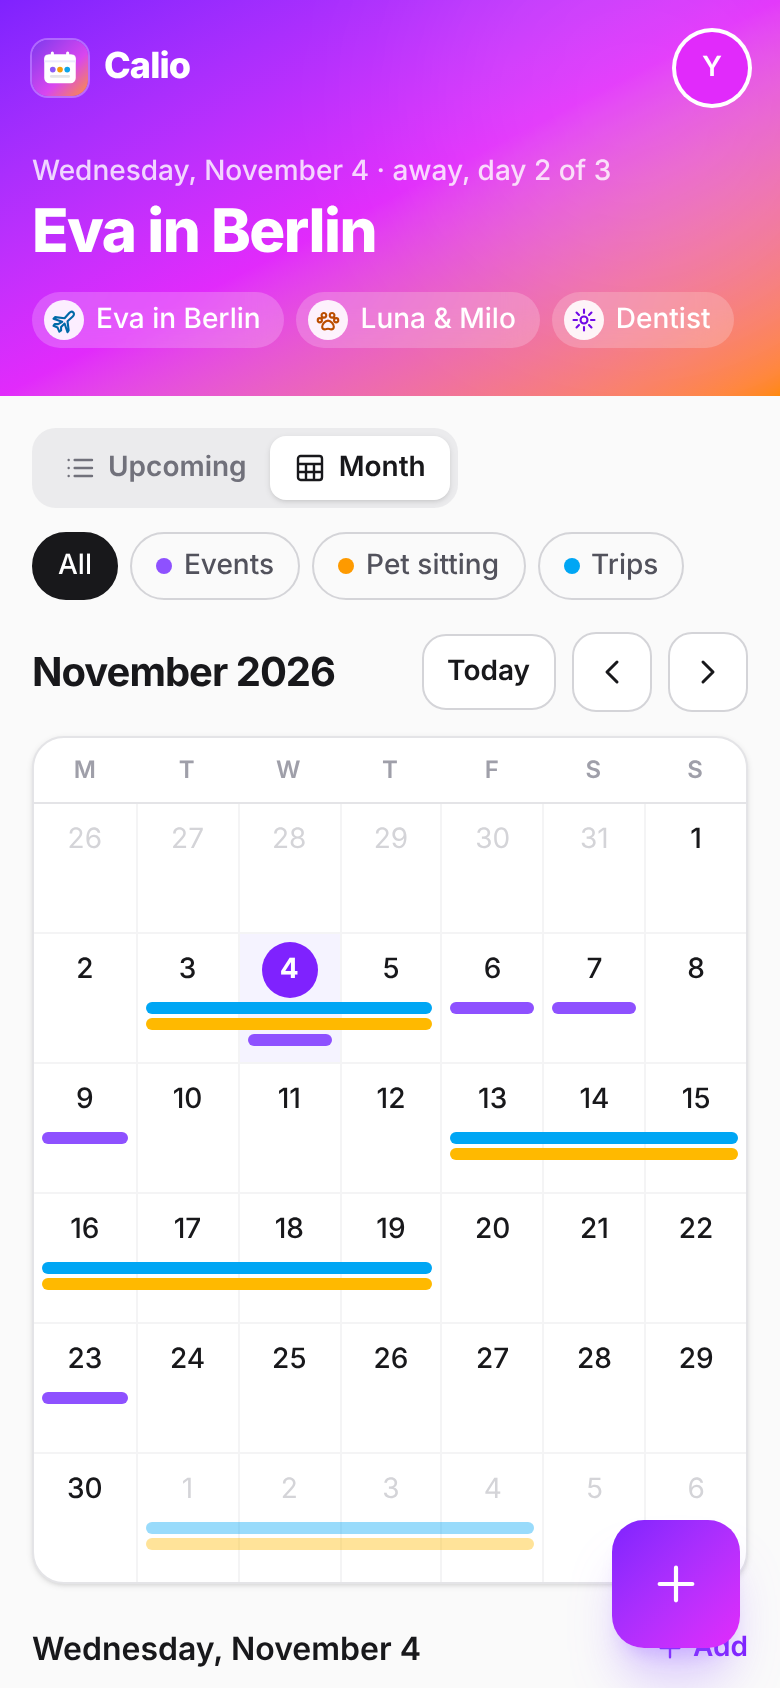
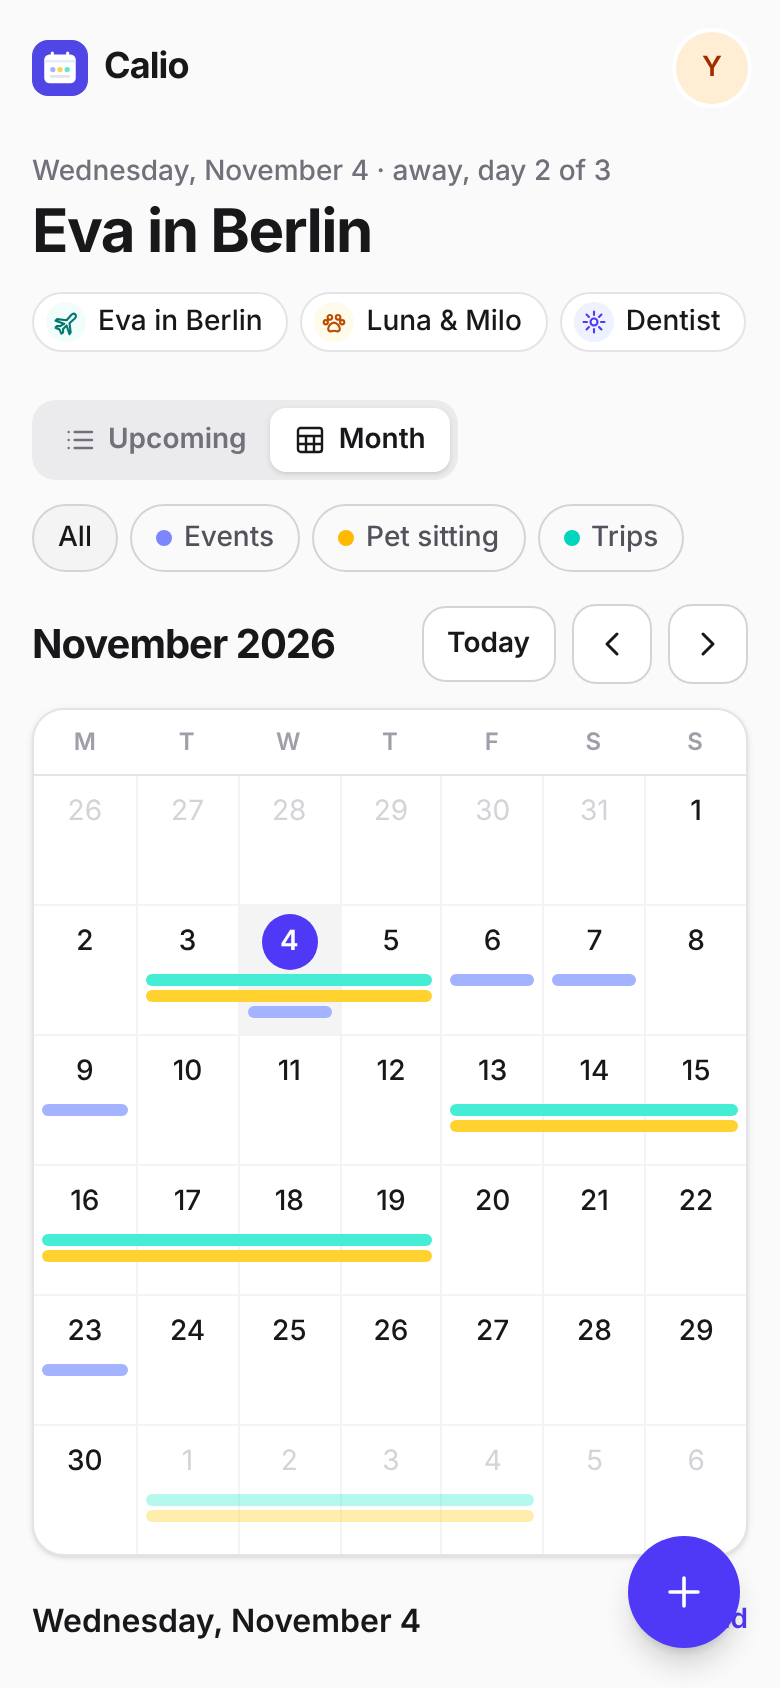
Calmer colors
A plain header instead of the gradient, soft tints for events, pet sitting
and trips, pastel avatars, a solid indigo add button and a flat indigo icon.
The month view keeps slightly stronger bars on phones so they stay readable.

diff --git a/web/src/components/Home.svelte b/web/src/components/Home.svelte
@@ -69,39 +69,30 @@
 </script>
 
 <div class="mx-auto flex min-h-dvh w-full max-w-3xl flex-col">
-  <header
-    class="relative overflow-hidden px-4 pt-[max(1rem,env(safe-area-inset-top))] pb-6 text-white"
-  >
-    <div
-      class="absolute inset-0 -z-10 bg-gradient-to-br from-violet-600 via-fuchsia-500 to-orange-400 sm:rounded-b-3xl"
-    ></div>
-    <div class="absolute -top-16 -right-10 -z-10 size-56 rounded-full bg-white/10 blur-2xl"></div>
+  <header class="px-4 pt-[max(1rem,env(safe-area-inset-top))] pb-2">
     <div class="flex items-center justify-between">
-      <span class="inline-flex items-center gap-2 text-lg font-extrabold tracking-tight">
-        <img src="/icons/icon.svg" alt="" class="size-7 rounded-lg ring-1 ring-white/30" /> Calio
+      <span class="inline-flex items-center gap-2 text-lg font-bold tracking-tight">
+        <img src="/icons/icon.svg" alt="" class="size-7 rounded-lg" /> Calio
       </span>
       <button class="rounded-full" onclick={() => (settings = true)} aria-label="Settings">
         <Avatar person={session.user!} size="size-9 text-sm" />
       </button>
     </div>
-    <p class="mt-6 text-sm font-medium text-white/80">
+    <p class="mt-6 text-sm font-medium text-zinc-500 dark:text-zinc-400">
       {longDayLabel(calendar.today)}{#if away}&nbsp;· away, {progressLabel(
           away,
           calendar.today,
         ).toLowerCase() || 'today'}{/if}
     </p>
-    <h1 class="mt-0.5 text-3xl font-extrabold tracking-tight">{summary}</h1>
+    <h1 class="mt-0.5 text-3xl font-bold tracking-tight">{summary}</h1>
     {#if today.length}
       <div class="mt-3 flex flex-wrap gap-1.5">
         {#each today.slice(0, 4) as e (e.id)}
           <button
-            class="inline-flex max-w-full items-center gap-1.5 rounded-full bg-white/20 py-1 pr-3 pl-1.5 text-sm font-medium backdrop-blur hover:bg-white/30"
+            class="inline-flex max-w-full items-center gap-1.5 rounded-full border border-zinc-200 bg-white py-1 pr-3 pl-1.5 text-sm font-medium hover:bg-zinc-100 dark:border-zinc-800 dark:bg-zinc-900 dark:hover:bg-zinc-800"
             onclick={() => open(e)}
           >
-            <span
-              class="grid size-5 place-items-center rounded-full bg-white/90 {LOOK[e.kind].tile
-                .split(' ')
-                .find((c) => c.startsWith('text-'))}"
+            <span class="grid size-5 place-items-center rounded-full {LOOK[e.kind].tile}"
               ><Icon name={LOOK[e.kind].icon} class="size-3.5" /></span
             >
             <span class="truncate">{e.title}</span>
@@ -131,7 +122,7 @@
         <button
           class="shrink-0 rounded-full border px-3 py-1.5 text-sm font-medium transition {filter ===
           'all'
-            ? 'border-zinc-900 bg-zinc-900 text-white dark:border-white dark:bg-white dark:text-zinc-900'
+            ? 'border-zinc-300 bg-zinc-100 text-zinc-900 dark:border-zinc-600 dark:bg-zinc-800 dark:text-zinc-100'
             : 'border-zinc-300 text-zinc-600 dark:border-zinc-700 dark:text-zinc-300'}"
           onclick={() => (filter = 'all')}>All</button
         >
@@ -143,8 +134,7 @@
               : 'border-zinc-300 text-zinc-600 dark:border-zinc-700 dark:text-zinc-300'}"
             onclick={() => (filter = filter === k.kind ? 'all' : k.kind)}
           >
-            <span class="size-2 rounded-full {filter === k.kind ? 'bg-white' : LOOK[k.kind].dot}"
-            ></span>
+            <span class="size-2 rounded-full {LOOK[k.kind].dot}"></span>
             {k.plural}
           </button>
         {/each}
@@ -174,11 +164,11 @@
   </main>
 
   <button
-    class="fixed right-5 bottom-[max(1.25rem,env(safe-area-inset-bottom))] z-30 grid size-16 place-items-center rounded-2xl bg-gradient-to-br from-violet-600 to-fuchsia-500 text-white shadow-xl shadow-violet-500/30 transition hover:scale-105 active:scale-95 sm:right-[max(1.25rem,calc(50vw-24rem+1.25rem))]"
+    class="fixed right-5 bottom-[max(1.25rem,env(safe-area-inset-bottom))] z-30 grid size-14 place-items-center rounded-full bg-brand-600 text-white shadow-lg shadow-zinc-900/20 transition hover:bg-brand-700 active:scale-95 sm:right-[max(1.25rem,calc(50vw-24rem+1.25rem))]"
     onclick={() => add()}
     aria-label="Add to the calendar"
   >
-    <Icon name="plus" class="size-7" />
+    <Icon name="plus" class="size-6" />
   </button>
 </div>
 

diff --git a/web/src/components/Agenda.svelte b/web/src/components/Agenda.svelte
@@ -32,27 +32,26 @@
   <section class="flex flex-col gap-2">
     {#each unbooked as e (e.id)}
       <div
-        class="flex items-center gap-3 rounded-2xl border border-amber-300/70 bg-gradient-to-r from-amber-50 to-orange-50 p-3 dark:border-amber-500/30 dark:from-amber-500/10 dark:to-orange-500/10"
+        class="flex items-center gap-3 rounded-2xl border border-amber-200 bg-amber-50/70 p-3 dark:border-amber-400/20 dark:bg-amber-400/5"
       >
         <span
-          class="grid size-10 shrink-0 place-items-center rounded-xl bg-amber-400 text-amber-950"
+          class="grid size-10 shrink-0 place-items-center rounded-xl bg-amber-100 text-amber-700 dark:bg-amber-400/15 dark:text-amber-300"
         >
           <Icon name="paw" />
         </span>
         <button class="min-w-0 flex-1 text-left" onclick={() => onopen(e)}>
-          <span class="block font-semibold text-amber-950 dark:text-amber-100"
+          <span class="block font-semibold text-zinc-900 dark:text-zinc-100"
             >Sitter needed: {e.title}</span
           >
-          <span class="block text-sm text-amber-800 dark:text-amber-300/80"
+          <span class="block text-sm text-zinc-600 dark:text-zinc-400"
             >{whenLabel(e)} · starts {inDays(span(e)[0], calendar.today)}{e.sitter_status ===
               'asked' && e.sitter
               ? ` · asked ${e.sitter}`
               : ''}</span
           >
         </button>
-        <button
-          class="shrink-0 rounded-xl bg-amber-950/90 px-3 py-2 text-sm font-semibold text-amber-50 hover:bg-amber-950 dark:bg-amber-400 dark:text-amber-950"
-          onclick={() => book(e)}>Booked</button
+        <button class="btn-secondary shrink-0 px-3 py-2 text-sm" onclick={() => book(e)}
+          >Booked</button
         >
       </div>
     {/each}
@@ -80,15 +79,15 @@
   <div class="flex flex-col items-center gap-3 px-6 py-16 text-center">
     <div class="flex gap-2">
       <span
-        class="grid size-12 -rotate-6 place-items-center rounded-2xl bg-violet-100 text-violet-600 dark:bg-violet-500/20 dark:text-violet-300"
+        class="grid size-12 -rotate-6 place-items-center rounded-2xl bg-indigo-50 text-indigo-600 dark:bg-indigo-400/10 dark:text-indigo-300"
         ><Icon name="sparkle" /></span
       >
       <span
-        class="grid size-12 place-items-center rounded-2xl bg-amber-100 text-amber-600 dark:bg-amber-500/20 dark:text-amber-300"
+        class="grid size-12 place-items-center rounded-2xl bg-amber-50 text-amber-700 dark:bg-amber-400/10 dark:text-amber-300"
         ><Icon name="paw" /></span
       >
       <span
-        class="grid size-12 rotate-6 place-items-center rounded-2xl bg-sky-100 text-sky-600 dark:bg-sky-500/20 dark:text-sky-300"
+        class="grid size-12 rotate-6 place-items-center rounded-2xl bg-teal-50 text-teal-700 dark:bg-teal-400/10 dark:text-teal-300"
         ><Icon name="plane" /></span
       >
     </div>

diff --git a/web/src/lib/look.ts b/web/src/lib/look.ts
@@ -1,33 +1,37 @@
 import type { Kind } from './entries';
 
-// How each kind of entry looks. Tailwind only sees whole class names, so they
-// are spelled out here.
+// How each kind of entry looks: soft tints with readable text, so the
+// calendar stays calm when it's full (bar: the thin month bars on phones). Tailwind only sees whole class names, so
+// they are spelled out here.
 export const LOOK: Record<
   Kind,
-  { icon: string; tile: string; bar: string; pill: string; chip: string; dot: string }
+  { icon: string; tile: string; pill: string; bar: string; chip: string; dot: string; text: string }
 > = {
   event: {
     icon: 'sparkle',
-    tile: 'bg-violet-100 text-violet-700 dark:bg-violet-500/20 dark:text-violet-300',
-    bar: 'bg-violet-500',
-    pill: 'bg-violet-500 text-white',
-    chip: 'border-violet-500 bg-violet-500 text-white',
-    dot: 'bg-violet-500',
+    tile: 'bg-indigo-50 text-indigo-600 dark:bg-indigo-400/10 dark:text-indigo-300',
+    pill: 'bg-indigo-100 text-indigo-900 dark:bg-indigo-400/20 dark:text-indigo-100',
+    chip: 'border-indigo-300 bg-indigo-50 text-indigo-900 dark:border-indigo-400/50 dark:bg-indigo-400/15 dark:text-indigo-100',
+    dot: 'bg-indigo-400',
+    bar: 'max-sm:bg-indigo-300 dark:max-sm:bg-indigo-400/70',
+    text: 'text-indigo-600 dark:text-indigo-300',
   },
   petsit: {
     icon: 'paw',
-    tile: 'bg-amber-100 text-amber-700 dark:bg-amber-500/20 dark:text-amber-300',
-    bar: 'bg-amber-500',
-    pill: 'bg-amber-400 text-amber-950',
-    chip: 'border-amber-500 bg-amber-500 text-white',
-    dot: 'bg-amber-500',
+    tile: 'bg-amber-50 text-amber-700 dark:bg-amber-400/10 dark:text-amber-300',
+    pill: 'bg-amber-100 text-amber-900 dark:bg-amber-400/20 dark:text-amber-100',
+    chip: 'border-amber-300 bg-amber-50 text-amber-900 dark:border-amber-400/50 dark:bg-amber-400/15 dark:text-amber-100',
+    dot: 'bg-amber-400',
+    bar: 'max-sm:bg-amber-300 dark:max-sm:bg-amber-400/70',
+    text: 'text-amber-700 dark:text-amber-300',
   },
   trip: {
     icon: 'plane',
-    tile: 'bg-sky-100 text-sky-700 dark:bg-sky-500/20 dark:text-sky-300',
-    bar: 'bg-sky-500',
-    pill: 'bg-sky-500 text-white',
-    chip: 'border-sky-500 bg-sky-500 text-white',
-    dot: 'bg-sky-500',
+    tile: 'bg-teal-50 text-teal-700 dark:bg-teal-400/10 dark:text-teal-300',
+    pill: 'bg-teal-100 text-teal-900 dark:bg-teal-400/20 dark:text-teal-100',
+    chip: 'border-teal-300 bg-teal-50 text-teal-900 dark:border-teal-400/50 dark:bg-teal-400/15 dark:text-teal-100',
+    dot: 'bg-teal-400',
+    bar: 'max-sm:bg-teal-300 dark:max-sm:bg-teal-400/70',
+    text: 'text-teal-700 dark:text-teal-300',
   },
 };

diff --git a/web/src/components/MonthView.svelte b/web/src/components/MonthView.svelte
@@ -116,7 +116,7 @@
           {@const isSelected = day === selected}
           <button
             class="relative flex min-h-16 flex-col gap-0.5 py-1 text-left transition sm:min-h-24 {isSelected
-              ? 'bg-violet-50 dark:bg-violet-500/10'
+              ? 'bg-zinc-100 dark:bg-zinc-800/70'
               : 'hover:bg-zinc-50 dark:hover:bg-zinc-800/50'} {i > 0
               ? 'border-l border-zinc-100 dark:border-zinc-800/70'
               : ''}"
@@ -127,7 +127,7 @@
           >
             <span
               class="mx-auto grid size-7 place-items-center rounded-full text-sm sm:mx-1.5 {isToday
-                ? 'bg-violet-600 font-bold text-white'
+                ? 'bg-brand-600 font-semibold text-white'
                 : inMonth
                   ? 'font-medium'
                   : 'text-zinc-300 dark:text-zinc-600'}">{dateOf(day).getDate()}</span
@@ -138,9 +138,9 @@
                 {@const starts = first === day || i === 0}
                 {@const ends = last === day || i === 6}
                 <span
-                  class="block h-1.5 truncate px-1.5 text-[11px] leading-5 font-semibold sm:h-5 {LOOK[
+                  class="block h-1.5 truncate px-1.5 text-[11px] leading-5 font-medium sm:h-5 {LOOK[
                     e.kind
-                  ].pill} {starts ? 'ml-1 rounded-l-full' : '-ml-px'} {ends
+                  ].pill} {LOOK[e.kind].bar} {starts ? 'ml-1 rounded-l-full' : '-ml-px'} {ends
                     ? 'mr-1 rounded-r-full'
                     : ''} {inMonth ? '' : 'opacity-40'}"
                 >
@@ -164,7 +164,7 @@
   <div class="mt-2 flex items-center justify-between">
     <h3 class="font-semibold">{longDayLabel(selected)}</h3>
     <button
-      class="inline-flex items-center gap-1 text-sm font-semibold text-violet-600 dark:text-violet-400"
+      class="inline-flex items-center gap-1 text-sm font-semibold text-brand-600 dark:text-brand-400"
       onclick={() => onadd(selected)}><Icon name="plus" class="size-4" /> Add</button
     >
   </div>

diff --git a/web/src/components/EntrySheet.svelte b/web/src/components/EntrySheet.svelte
@@ -138,7 +138,7 @@
           aria-checked={kind === k.kind}
           class="flex flex-col items-center gap-1 rounded-2xl border-2 px-2 py-3 text-sm font-semibold transition {kind ===
           k.kind
-            ? LOOK[k.kind].chip + ' shadow-md'
+            ? LOOK[k.kind].chip
             : 'border-zinc-200 text-zinc-600 hover:border-zinc-300 dark:border-zinc-700 dark:text-zinc-300'}"
           onclick={() => pick(k.kind)}
         >
@@ -221,7 +221,7 @@
             <button
               type="button"
               class="inline-flex items-center gap-2 rounded-full border py-1 pr-3 pl-1 text-sm font-medium transition {on
-                ? 'border-violet-500 bg-violet-50 text-violet-900 dark:bg-violet-500/15 dark:text-violet-100'
+                ? 'border-brand-400 bg-brand-500/10 text-zinc-900 dark:text-zinc-100'
                 : 'border-zinc-200 text-zinc-500 dark:border-zinc-700'}"
               aria-pressed={on}
               onclick={() => togglePerson(p.id)}
@@ -236,7 +236,7 @@
 
     {#if kind === 'trip' && !editing}
       <label
-        class="flex-row items-center gap-3 rounded-2xl border border-amber-300/70 bg-amber-50 p-3 dark:border-amber-500/30 dark:bg-amber-500/10"
+        class="flex-row items-center gap-3 rounded-2xl border border-zinc-200 bg-zinc-50 p-3 dark:border-zinc-700 dark:bg-zinc-800/50"
       >
         <input type="checkbox" bind:checked={needSitter} />
         <span class="flex-1">
@@ -245,7 +245,7 @@
             >Adds pet sitting for the same dates.</span
           >
         </span>
-        <Icon name="paw" class="size-5 text-amber-600" />
+        <Icon name="paw" class="size-5 text-amber-600 dark:text-amber-300" />
       </label>
     {/if}
 

diff --git a/web/src/components/EntryRow.svelte b/web/src/components/EntryRow.svelte
@@ -14,16 +14,16 @@
       ? entry.sitter_status === 'booked'
         ? {
             text: entry.sitter ? `${entry.sitter} booked` : 'Booked',
-            cls: 'bg-emerald-100 text-emerald-800 dark:bg-emerald-500/15 dark:text-emerald-300',
+            cls: 'bg-emerald-50 text-emerald-800 dark:bg-emerald-400/10 dark:text-emerald-300',
           }
         : entry.sitter_status === 'asked'
           ? {
               text: entry.sitter ? `Asked ${entry.sitter}` : 'Asked',
-              cls: 'bg-sky-100 text-sky-800 dark:bg-sky-500/15 dark:text-sky-300',
+              cls: 'bg-zinc-100 text-zinc-700 dark:bg-zinc-800 dark:text-zinc-300',
             }
           : {
               text: 'Sitter needed',
-              cls: 'bg-amber-100 text-amber-900 dark:bg-amber-500/15 dark:text-amber-300',
+              cls: 'bg-amber-50 text-amber-800 dark:bg-amber-400/10 dark:text-amber-300',
             }
       : null,
   );
@@ -56,7 +56,7 @@
     {#if status || progress}
       <span class="mt-1 flex flex-wrap gap-1.5 text-xs font-medium">
         {#if progress}<span
-            class="rounded-full bg-zinc-900 px-2 py-0.5 text-white dark:bg-white dark:text-zinc-900"
+            class="rounded-full bg-zinc-100 px-2 py-0.5 text-zinc-700 dark:bg-zinc-800 dark:text-zinc-300"
             >{progress}</span
           >{/if}
         {#if status}<span class="rounded-full px-2 py-0.5 {status.cls}">{status.text}</span>{/if}

diff --git a/web/src/lib/calendar.svelte.ts b/web/src/lib/calendar.svelte.ts
@@ -75,12 +75,14 @@ export function firstName(u: User | undefined): string {
 
 /** A stable color for a person's avatar. */
 const AVATAR = [
-  'bg-rose-500',
-  'bg-emerald-500',
-  'bg-sky-500',
-  'bg-amber-500',
-  'bg-fuchsia-500',
-  'bg-teal-500',
+  'bg-rose-100 text-rose-800 dark:bg-rose-400/20 dark:text-rose-200',
+  'bg-emerald-100 text-emerald-800 dark:bg-emerald-400/20 dark:text-emerald-200',
+  'bg-sky-100 text-sky-800 dark:bg-sky-400/20 dark:text-sky-200',
+  'bg-amber-100 text-amber-800 dark:bg-amber-400/20 dark:text-amber-200',
+  'bg-violet-100 text-violet-800 dark:bg-violet-400/20 dark:text-violet-200',
+  'bg-teal-100 text-teal-800 dark:bg-teal-400/20 dark:text-teal-200',
+  'bg-orange-100 text-orange-800 dark:bg-orange-400/20 dark:text-orange-200',
+  'bg-lime-100 text-lime-800 dark:bg-lime-400/20 dark:text-lime-200',
 ];
 export function avatarColor(id: string): string {
   let h = 0;

diff --git a/web/src/app.css b/web/src/app.css
@@ -3,10 +3,10 @@
 @theme {
   --font-sans: system-ui, -apple-system, 'Segoe UI', Roboto, sans-serif;
   /* the brand color: change these to restyle every button and link */
-  --color-brand-400: var(--color-violet-400);
-  --color-brand-500: var(--color-violet-500);
-  --color-brand-600: var(--color-violet-600);
-  --color-brand-700: var(--color-violet-700);
+  --color-brand-400: var(--color-indigo-400);
+  --color-brand-500: var(--color-indigo-500);
+  --color-brand-600: var(--color-indigo-600);
+  --color-brand-700: var(--color-indigo-700);
 }
 
 @layer base {

diff --git a/web/src/components/Avatar.svelte b/web/src/components/Avatar.svelte
@@ -7,7 +7,7 @@
 
 {#if person}
   <span
-    class="inline-flex shrink-0 items-center justify-center rounded-full font-semibold text-white ring-2 ring-white dark:ring-zinc-900 {avatarColor(
+    class="inline-flex shrink-0 items-center justify-center rounded-full font-semibold ring-2 ring-white dark:ring-zinc-900 {avatarColor(
       person.id,
     )} {size}"
     title={person.name || person.email}
